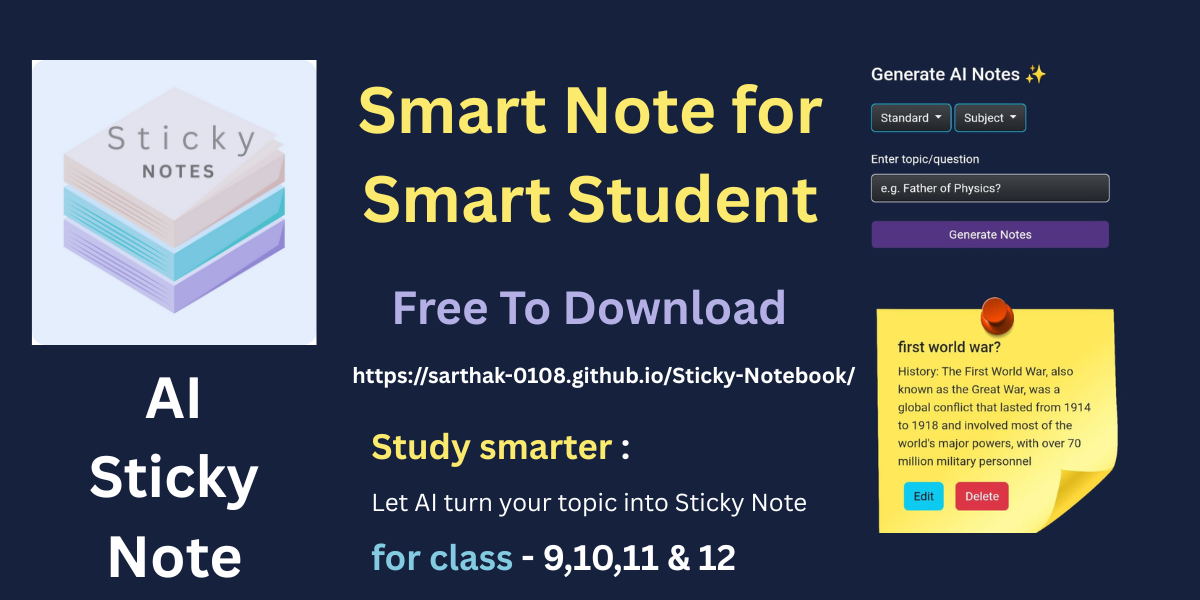
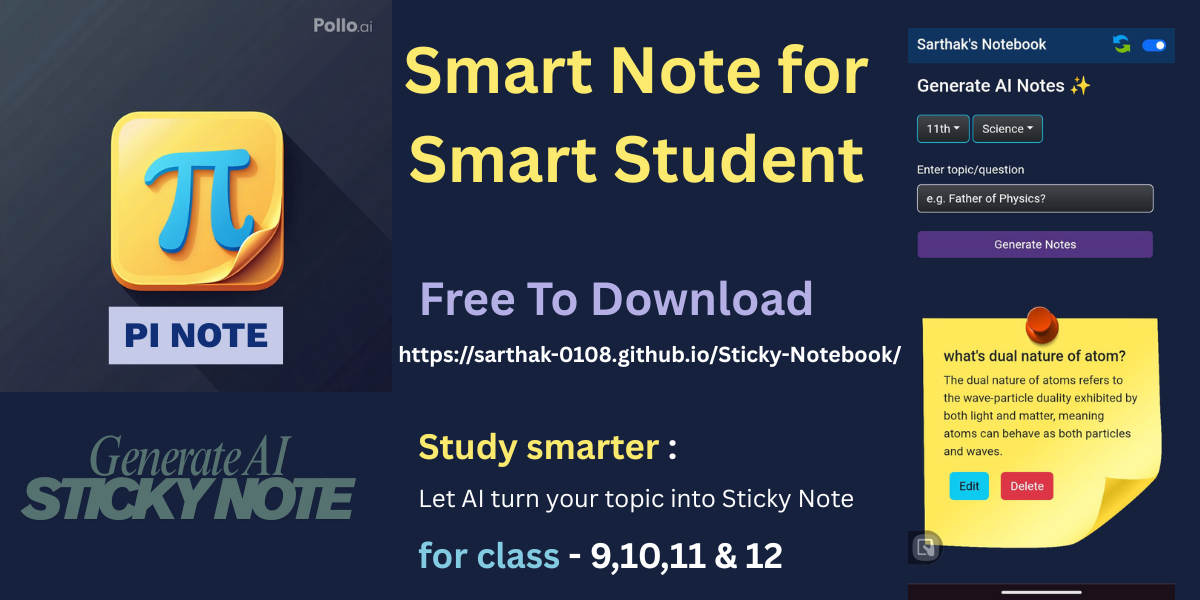
generate ai notes becomes mainpage

diff --git a/index.html b/index.html
@@ -105,51 +105,25 @@
 
     <link rel="stylesheet" href="style.css" />
 
-    <!-- <link rel="apple-touch-icon" sizes="180x180" href="apple-touch-icon.png" />
     <link rel="icon" type="image/png" sizes="32x32" href="favicon-32x32.png" />
-    <link rel="icon" type="image/png" sizes="16x16" href="favicon-16x16.png" />
-    <link rel="manifest" href="site.webmanifest" /> -->
-    <link rel="apple-touch-icon" sizes="57x57" href="apple-icon-57x57.png" />
-    <link rel="apple-touch-icon" sizes="60x60" href="apple-icon-60x60.png" />
-    <link rel="apple-touch-icon" sizes="72x72" href="apple-icon-72x72.png" />
-    <link rel="apple-touch-icon" sizes="76x76" href="apple-icon-76x76.png" />
-    <link
-      rel="apple-touch-icon"
-      sizes="114x114"
-      href="apple-icon-114x114.png"
-    />
-    <link
-      rel="apple-touch-icon"
-      sizes="120x120"
-      href="apple-icon-120x120.png"
-    />
-    <link
-      rel="apple-touch-icon"
-      sizes="144x144"
-      href="apple-icon-144x144.png"
-    />
-    <link
-      rel="apple-touch-icon"
-      sizes="152x152"
-      href="apple-icon-152x152.png"
-    />
-    <link
-      rel="apple-touch-icon"
-      sizes="180x180"
-      href="apple-icon-180x180.png"
-    />
+
+    <!-- Android and PWA -->
     <link
       rel="icon"
       type="image/png"
       sizes="192x192"
       href="android-icon-192x192.png"
     />
-    <link rel="icon" type="image/png" sizes="32x32" href="favicon-32x32.png" />
-    <link rel="icon" type="image/png" sizes="96x96" href="favicon-96x96.png" />
-    <link rel="icon" type="image/png" sizes="16x16" href="favicon-16x16.png" />
+
+    <!-- Apple Touch Icon (used when added to home screen) -->
+    <link
+      rel="apple-touch-icon"
+      sizes="180x180"
+      href="apple-icon-180x180.png"
+    />
+
+    <!-- Manifest -->
     <link rel="manifest" href="manifest.json" />
-    <meta name="msapplication-TileColor" content="#16213e" />
-    <meta name="msapplication-TileImage" content="ms-icon-144x144.png" />
   </head>
   <body>
     <!-- Modal to take userName -->
@@ -216,7 +190,7 @@
     </div>
 
     <!-- sticky note -->
-    <div class="sticky-notes">
+    <div class="sticky-notes" hidden>
       <div class="main">
         <!-- <------------------------------ creating notes folder -------------------------------------->
         <!-- bootstrap modal to take user folder  -->
@@ -319,7 +293,7 @@
       </div>
     </div>
 
-    <div class="ai-notes" hidden>
+    <div class="ai-notes">
       <div class="container mt-3">
         <div class="contanier">
           <h2 class="" id="info">Generate AI Notes ✨</h2>

diff --git a/script.js b/script.js
@@ -160,7 +160,8 @@ toggleBtn.addEventListener("click", () => {
 
 //<--------------------  Swap functionality General To AI ---------------------->
 
-stickyNotes.hidden = false;
+// stickyNotes.hidden = ture;
+// aiNotes.hidden = false;
 
 swapBtn.addEventListener("click", () => {
   if (stickyNotes.hidden === false) {
